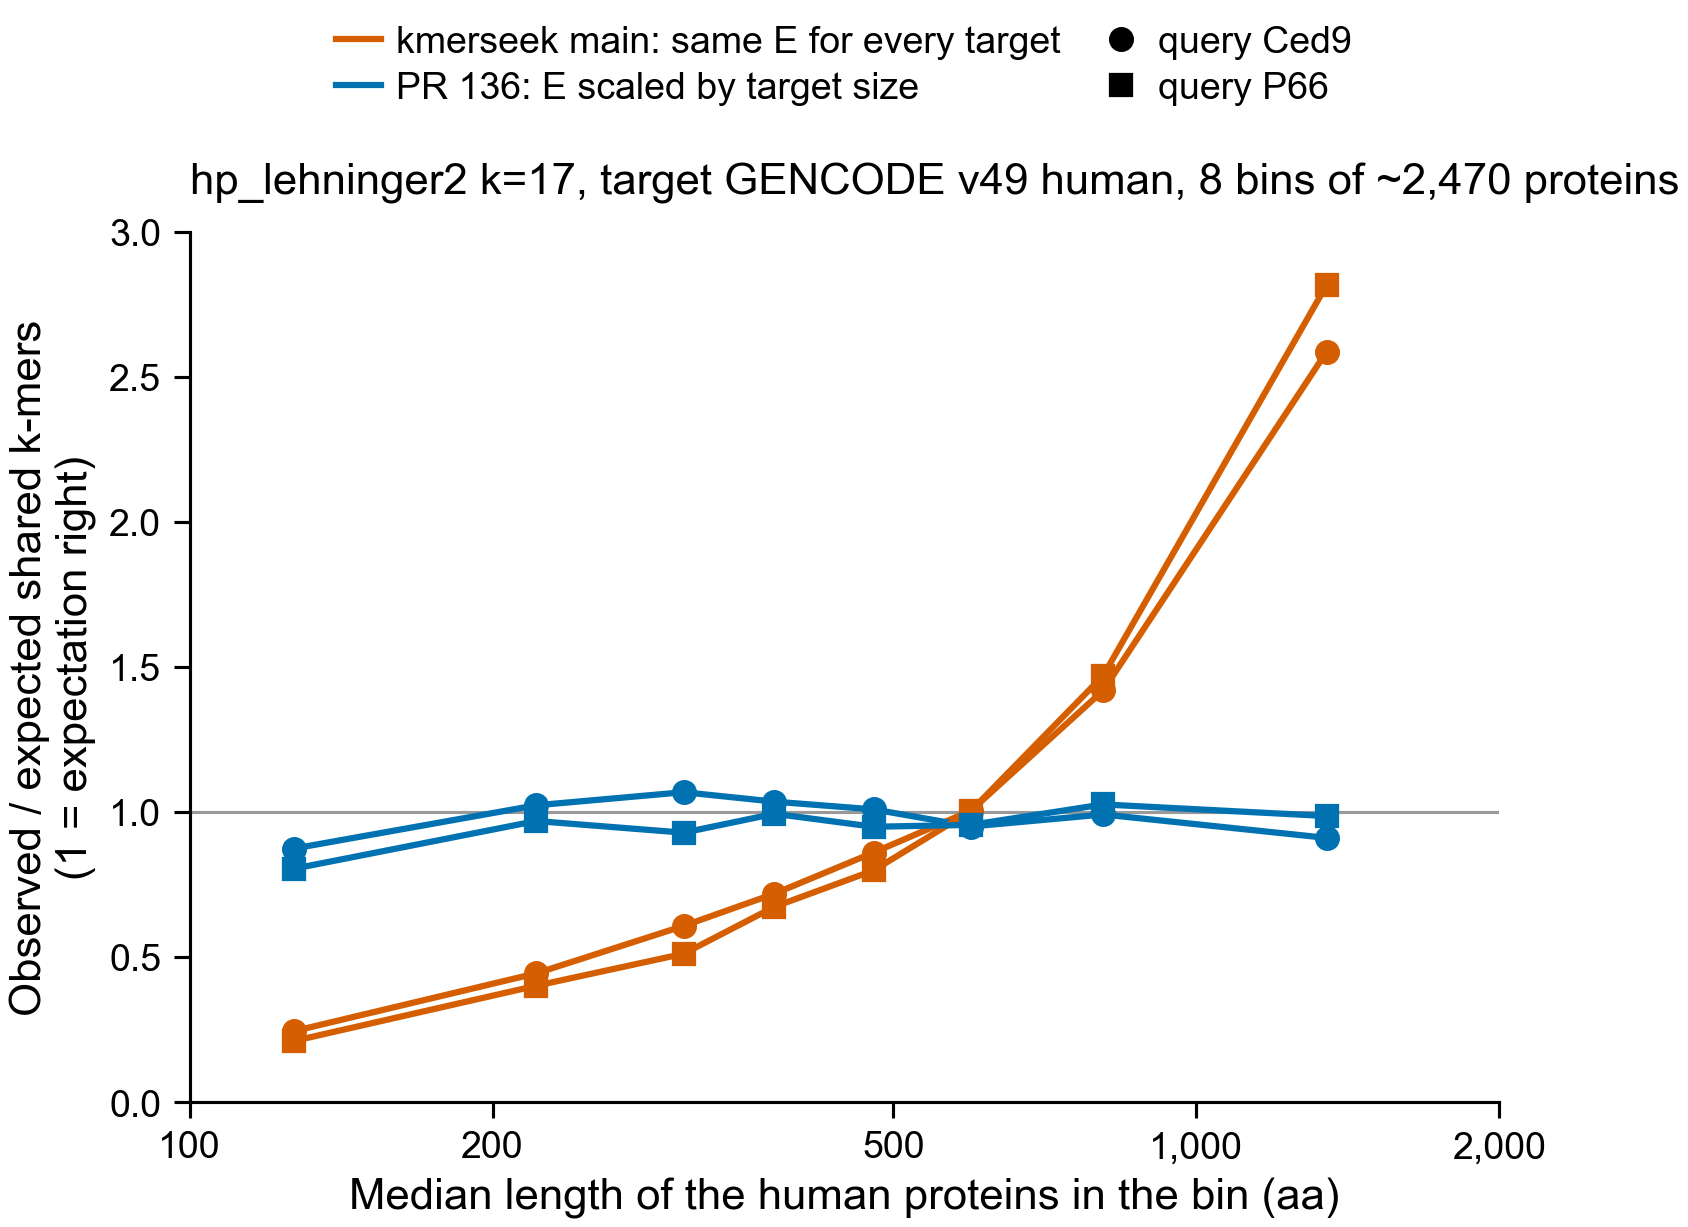
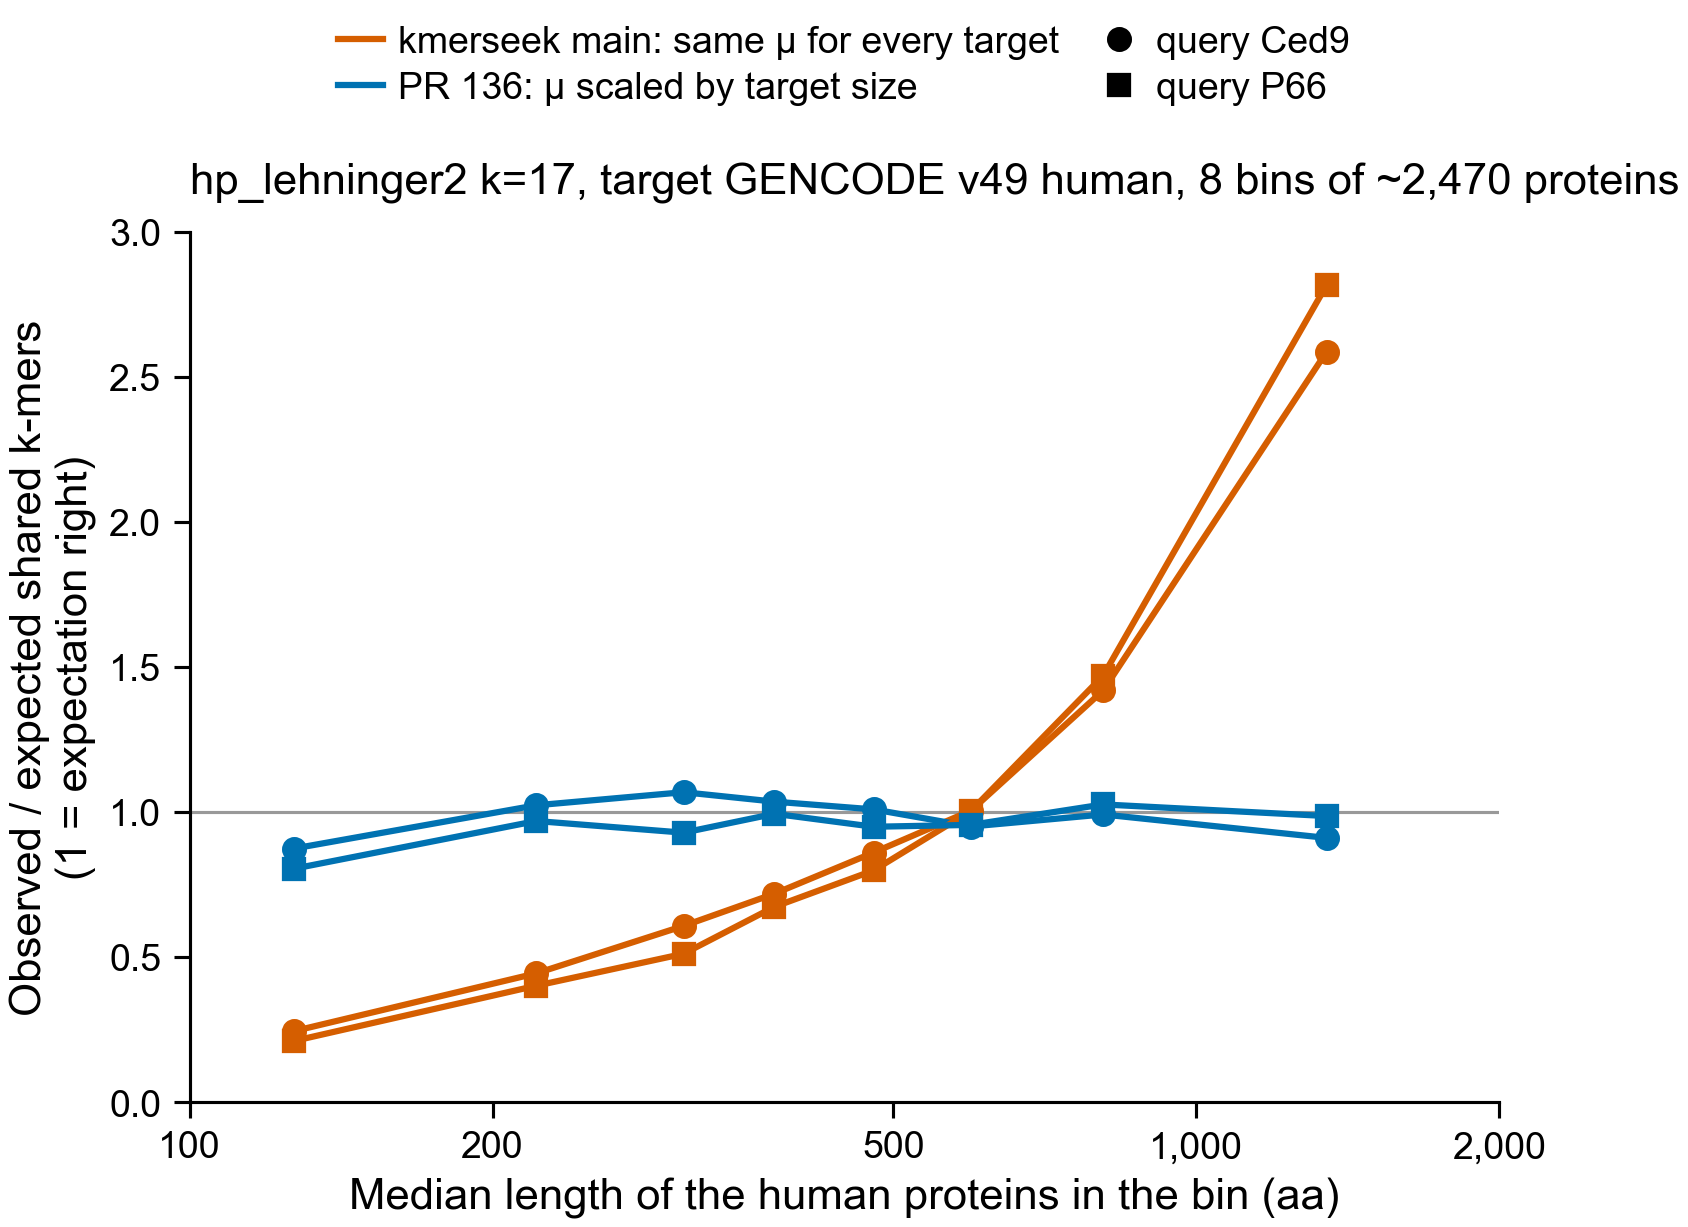
241: call the chance count of shared k-mers mu, not E, in the length figure
E reads as an E-value (Olga on seanome/kmerseek PR 136). mu is the mean
of the Poisson behind kmerseek's whole-protein p-value. The script gains
--plot-only, which redraws the figure from the saved table; the search
outputs it was built from are gone. Same table, same lines.

Changed region(s): [[0.2156, 0.031, 0.6161, 0.0929], [0.6777, 0.0, 0.8009, 0.0929]]

diff --git a/notebooks/241_expected_vs_observed_by_length.py b/notebooks/241_expected_vs_observed_by_length.py
@@ -3,24 +3,27 @@
 target length? Before and after seanome/kmerseek PR 136.
 
 For one query, the count of k-mers it shares with each human protein is observed; the
-whole-protein chance count E is what kmerseek expects. Sum both over all proteins in a
-length bin (proteins with no shared k-mer add 0 observed). If E is right, observed / E is
-the same in every bin. kmerseek main's E is the same for every target, so the ratio climbs
-with length; PR 136's E scales with the target's k-mer count.
+whole-protein chance count μ is what kmerseek expects (the mean of the Poisson behind its
+p-value, not an E-value). Sum both over all proteins in a length bin (proteins with no
+shared k-mer add 0 observed). If μ is right, observed / μ is the same in every bin.
+kmerseek main's μ is the same for every target, so the ratio climbs with length; PR 136's
+μ scales with the target's k-mer count.
 
 Inputs: the hp_lehninger2 k=17 searches 241_length_scaled_check.py writes
 ($NB241_CHECK_DIR/{main,pr136}/search/hp_lehninger2.k17.csv) and the human FASTA.
 Proteins that share no k-mer with the query are not in the search output, so their PR 136
-E is read off the E of hit proteins with the same k-mer count (np.interp), and their k-mer
+μ is read off the μ of hit proteins with the same k-mer count (np.interp), and their k-mer
 count from their length by a straight-line fit on the hit proteins.
 
 Writes notebooks/241_results/expected_vs_observed_by_length.csv and
-figures/241_expected_vs_observed_by_length.{png,pdf}.
+figures/241_expected_vs_observed_by_length.{png,pdf}. With --plot-only, redraws the
+figure from that CSV without the search outputs.
 """
 
 from __future__ import annotations
 
 import os
+import sys
 from pathlib import Path
 
 import numpy as np
@@ -30,7 +33,6 @@ from matplotlib.lines import Line2D
 import pubfig as pf
 
 HERE = Path(__file__).resolve().parent
-CHECK = Path(os.environ["NB241_CHECK_DIR"])
 HUMAN = Path(
     os.environ.get(
         "NB241_HUMAN",
@@ -44,7 +46,8 @@ OUT_FIG = HERE.parent / "figures" / "241_expected_vs_observed_by_length"
 
 
 def per_target(build_dir: str) -> pl.DataFrame:
-    d = pl.read_csv(CHECK / build_dir / "search" / f"{TAG}.csv", infer_schema_length=0)
+    check = Path(os.environ["NB241_CHECK_DIR"])
+    d = pl.read_csv(check / build_dir / "search" / f"{TAG}.csv", infer_schema_length=0)
     cols = [
         "n_intersecting_hashes",
         "query_expected_shared_kmers",
@@ -57,7 +60,7 @@ def per_target(build_dir: str) -> pl.DataFrame:
     )
 
 
-def main() -> None:
+def build_table() -> pl.DataFrame:
     headers = [line[1:].strip() for line in open(HUMAN) if line.startswith(">")]
     proteins = pl.DataFrame({"target_name": headers}).with_columns(
         pl.col("target_name").str.split("|").list.get(7).cast(pl.Int64).alias("length")
@@ -132,12 +135,16 @@ def main() -> None:
         )
         rows.append(s.drop("bin"))
         print(
-            f"{query}: main's E = {e_old:.3f} per protein; kmers ~ {slope:.3f} * length "
+            f"{query}: main's μ = {e_old:.3f} per protein; kmers ~ {slope:.3f} * length "
             f"+ {intercept:.1f} (fit on the {h.height:,} proteins hit)"
         )
     table = pl.concat(rows)
     OUT_CSV.parent.mkdir(exist_ok=True)
     table.write_csv(OUT_CSV)
+    return table
+
+
+def plot(table: pl.DataFrame) -> None:
     pl.Config.set_tbl_rows(40)
     pl.Config.set_tbl_width_chars(160)
     print(
@@ -180,9 +187,9 @@ def main() -> None:
             [],
             [],
             color=c["vermillion"],
-            label="kmerseek main: same E for every target",
+            label="kmerseek main: same μ for every target",
         ),
-        Line2D([], [], color=c["blue"], label="PR 136: E scaled by target size"),
+        Line2D([], [], color=c["blue"], label="PR 136: μ scaled by target size"),
         Line2D([], [], ls="", marker="o", color="black", ms=3, label="query Ced9"),
         Line2D([], [], ls="", marker="s", color="black", ms=3, label="query P66"),
     ]
@@ -192,7 +199,16 @@ def main() -> None:
         loc="left",
     )
     pf.save(fig, OUT_FIG, formats=("pdf", "png"))
-    print(f"wrote {OUT_CSV} and {OUT_FIG}.png/.pdf")
+    print(f"wrote {OUT_FIG}.png/.pdf")
+
+
+def main() -> None:
+    # --plot-only redraws from the saved table, for when the search CSVs are gone.
+    if "--plot-only" in sys.argv:
+        plot(pl.read_csv(OUT_CSV))
+    else:
+        plot(build_table())
+        print(f"wrote {OUT_CSV}")
 
 
 if __name__ == "__main__":
